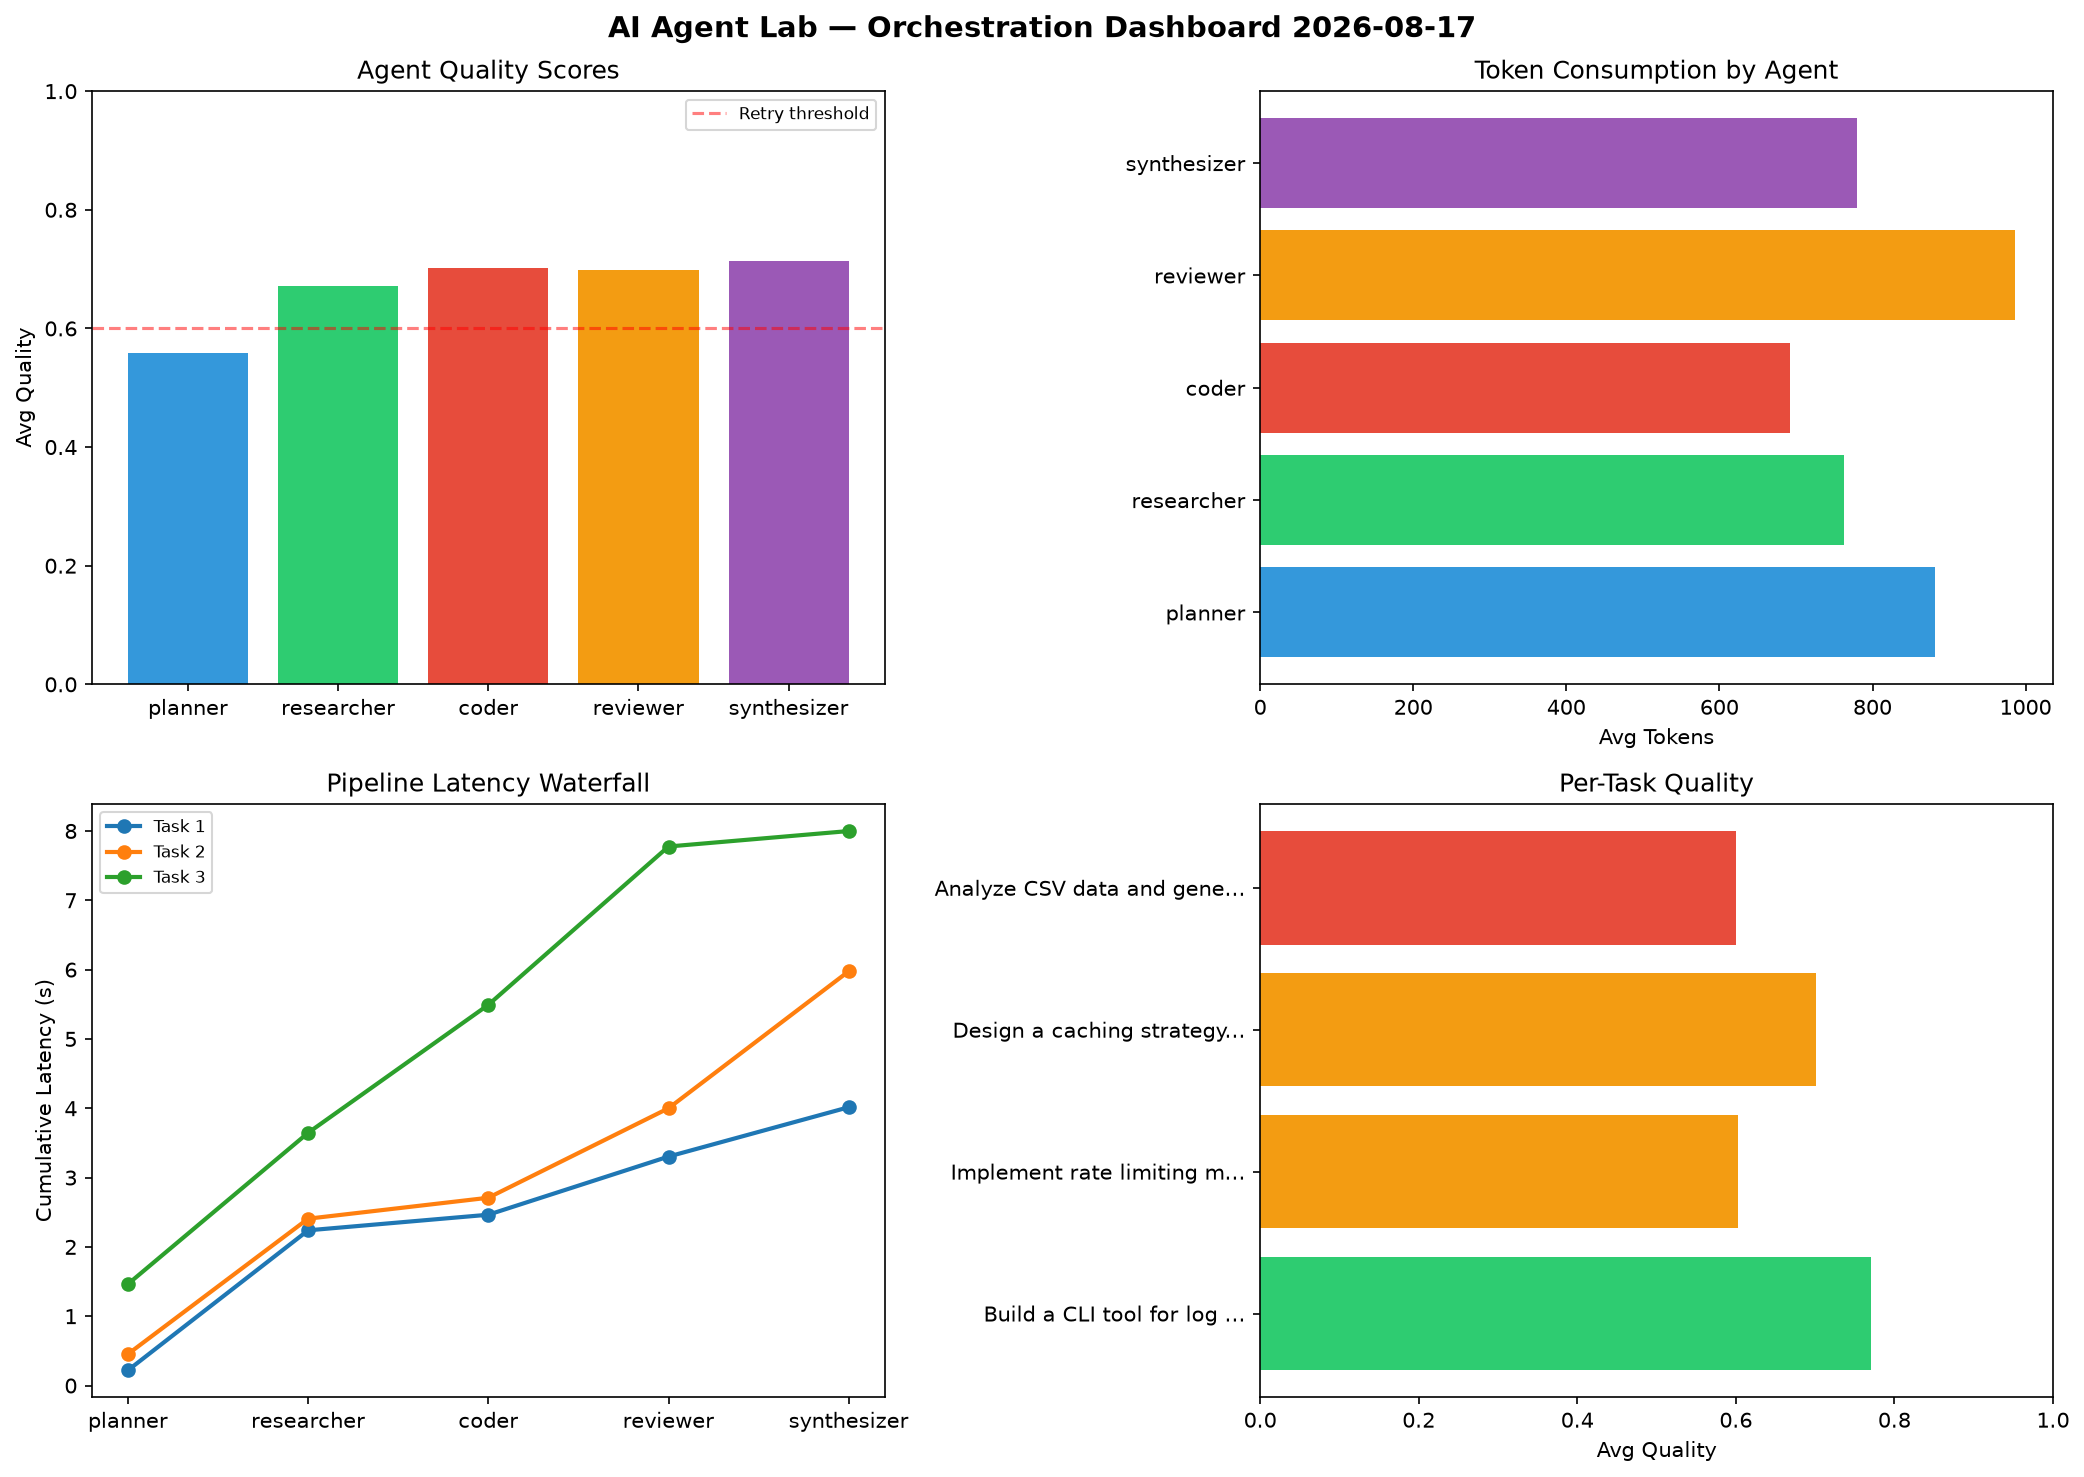
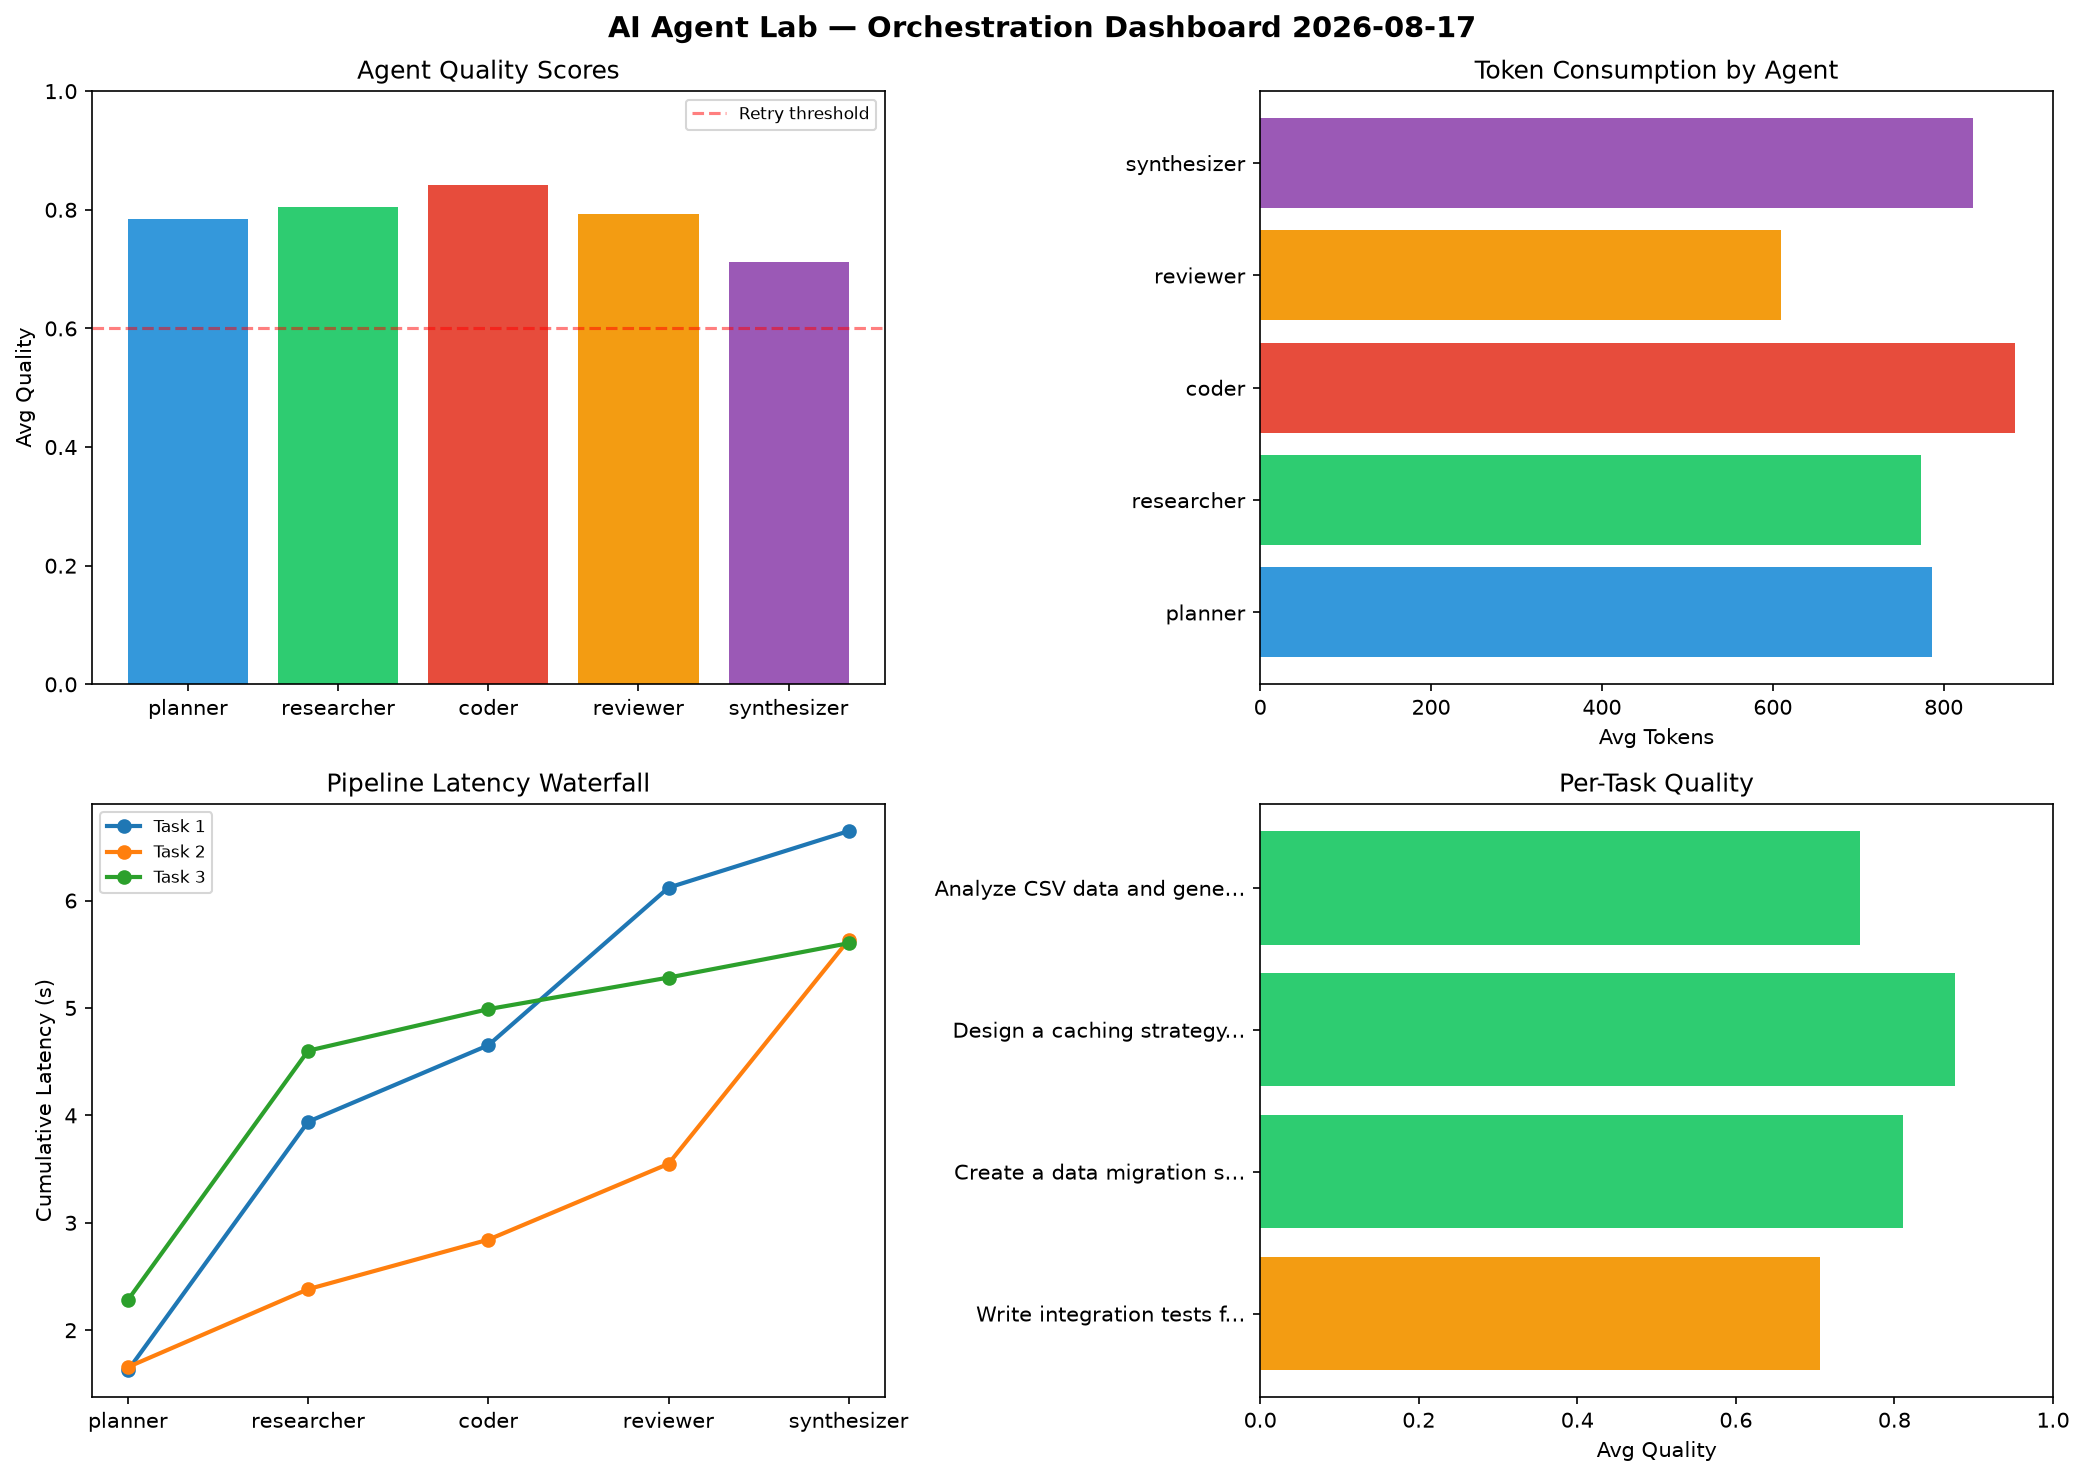
ai-agent-lab: orchestration run 2026-08-17T14:47

diff --git a/logs/2026-08-17.md b/logs/2026-08-17.md
@@ -1,6 +1,6 @@
 # AI Agent Lab — Orchestration Report 2026-08-17
 
-**Run ID:** `d730ef929a` | **Tasks:** 4 | **Avg Quality:** 0.669
+**Run ID:** `66142ceba2` | **Tasks:** 4 | **Avg Quality:** 0.787
 
 ![Dashboard](2026-08-17_dashboard.png)
 
@@ -8,52 +8,52 @@
 
 | Metric | Value |
 |--------|-------|
-| avg_latency | 6.795 |
-| total_tokens | 16417 |
-| avg_quality | 0.669 |
+| avg_latency | 5.96 |
+| total_tokens | 15546 |
+| avg_quality | 0.787 |
 
 ## Delta vs Yesterday
 
 | Metric | Today | Yesterday | Change |
 |--------|-------|-----------|--------|
-| avg_latency | 6.795 | 5.168 | 📈 31.5% |
-| total_tokens | 16417 | 14926 | 📈 10.0% |
-| avg_quality | 0.669 | 0.764 | 📉 -12.4% |
+| avg_latency | 5.96 | 5.168 | 📈 15.3% |
+| total_tokens | 15546 | 14926 | 📈 4.2% |
+| avg_quality | 0.787 | 0.764 | 📈 3.0% |
 
 ## Pipeline Results
 
-### Build a CLI tool for log analysis
+### Write integration tests for payment processing module
 | Agent | Quality | Latency | Tokens | Status |
 |-------|---------|---------|--------|--------|
-| planner | 0.527 | 0.22s | 1110 | needs_retry |
-| researcher | 0.993 | 2.019s | 906 | success |
-| coder | 0.786 | 0.225s | 1000 | success |
-| reviewer | 0.959 | 0.839s | 1094 | success |
-| synthesizer | 0.589 | 0.712s | 704 | needs_retry |
+| planner | 0.898 | 1.627s | 534 | success |
+| researcher | 0.831 | 2.314s | 458 | success |
+| coder | 0.616 | 0.712s | 896 | success |
+| reviewer | 0.676 | 1.467s | 347 | success |
+| synthesizer | 0.508 | 0.527s | 623 | needs_retry |
 
-### Implement rate limiting middleware
+### Create a data migration script for schema v2
 | Agent | Quality | Latency | Tokens | Status |
 |-------|---------|---------|--------|--------|
-| planner | 0.518 | 0.454s | 969 | needs_retry |
-| researcher | 0.523 | 1.953s | 875 | needs_retry |
-| coder | 0.716 | 0.302s | 1043 | success |
-| reviewer | 0.571 | 1.291s | 920 | needs_retry |
-| synthesizer | 0.685 | 1.976s | 1082 | success |
+| planner | 0.651 | 1.657s | 389 | success |
+| researcher | 0.881 | 0.725s | 876 | success |
+| coder | 0.907 | 0.461s | 1233 | success |
+| reviewer | 0.98 | 0.706s | 473 | success |
+| synthesizer | 0.636 | 2.085s | 1133 | success |
 
 ### Design a caching strategy for high-traffic endpoints
 | Agent | Quality | Latency | Tokens | Status |
 |-------|---------|---------|--------|--------|
-| planner | 0.644 | 1.464s | 585 | success |
-| researcher | 0.619 | 2.182s | 224 | success |
-| coder | 0.752 | 1.846s | 446 | success |
-| reviewer | 0.702 | 2.284s | 976 | success |
-| synthesizer | 0.789 | 0.223s | 659 | success |
+| planner | 0.754 | 2.282s | 1217 | success |
+| researcher | 0.846 | 2.32s | 1033 | success |
+| coder | 0.986 | 0.387s | 683 | success |
+| reviewer | 0.925 | 0.294s | 645 | success |
+| synthesizer | 0.867 | 0.32s | 556 | success |
 
 ### Analyze CSV data and generate statistical summary
 | Agent | Quality | Latency | Tokens | Status |
 |-------|---------|---------|--------|--------|
-| planner | 0.545 | 2.326s | 865 | needs_retry |
-| researcher | 0.549 | 0.885s | 1048 | needs_retry |
-| coder | 0.554 | 1.946s | 281 | needs_retry |
-| reviewer | 0.562 | 2.322s | 956 | needs_retry |
-| synthesizer | 0.789 | 1.71s | 674 | success |
+| planner | 0.836 | 0.453s | 1003 | success |
+| researcher | 0.66 | 2.036s | 728 | success |
+| coder | 0.858 | 1.578s | 723 | success |
+| reviewer | 0.589 | 0.622s | 972 | needs_retry |
+| synthesizer | 0.835 | 1.269s | 1024 | success |
